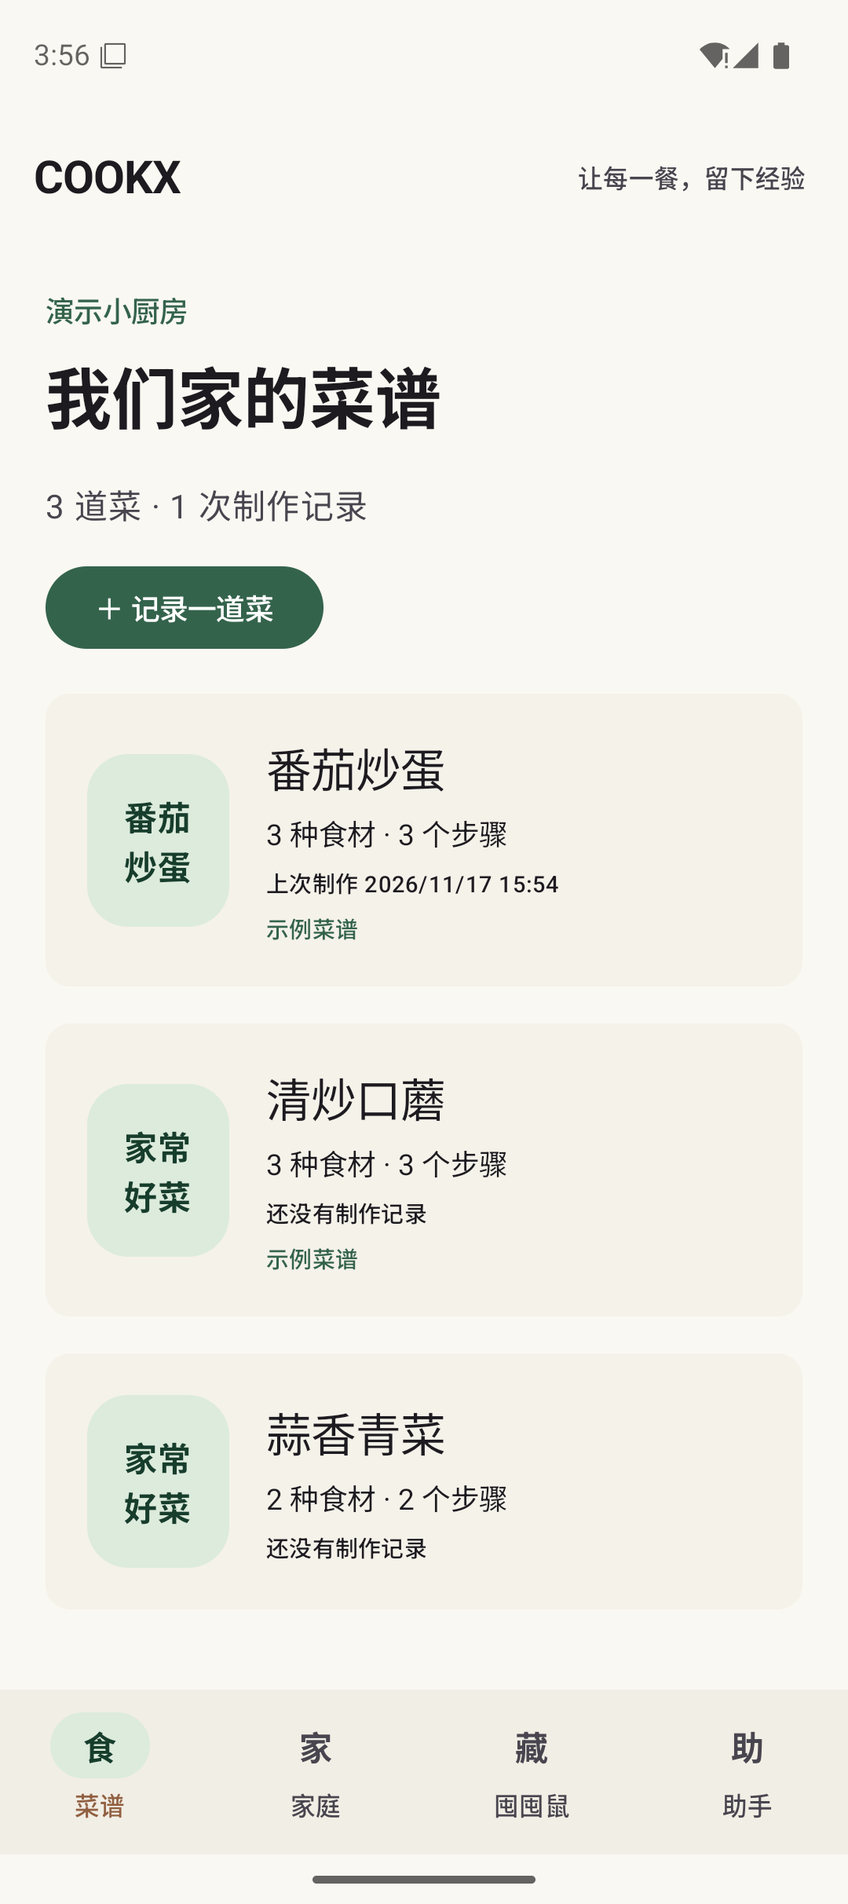
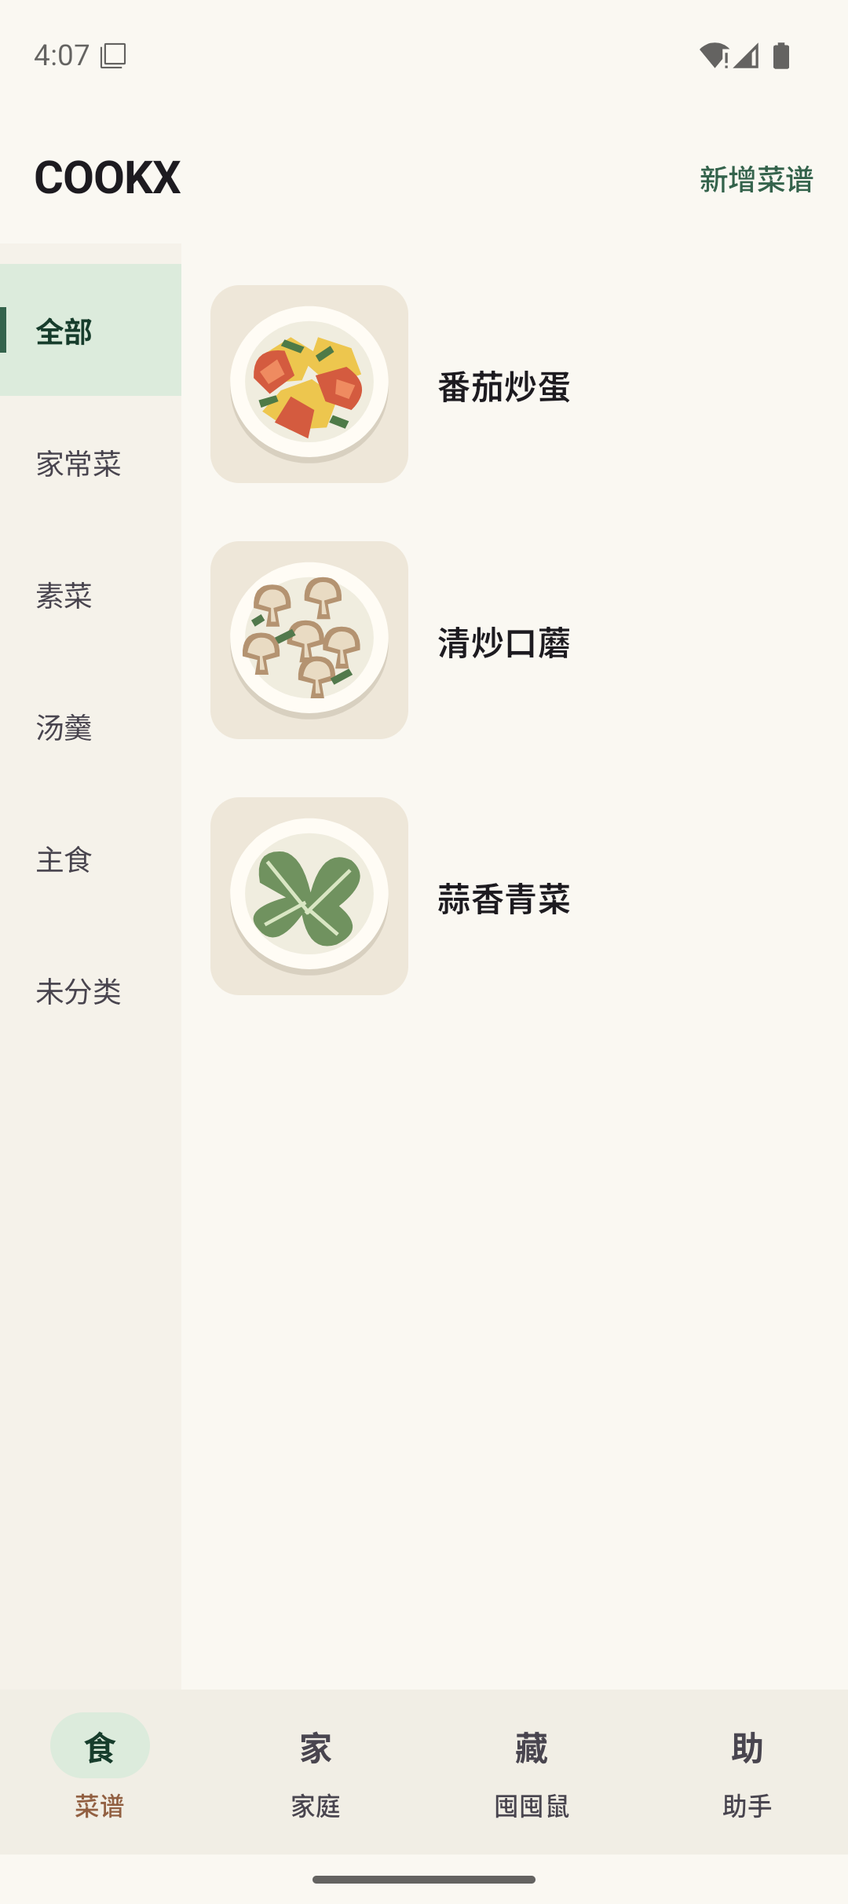
feat: simplify recipe home into categorized image-and-name menu

diff --git a/app/src/main/kotlin/com/cookx/app/ui/CookxApp.kt b/app/src/main/kotlin/com/cookx/app/ui/CookxApp.kt
@@ -45,8 +45,11 @@ private fun date(value: Long) = SimpleDateFormat("yyyy/MM/dd HH:mm", Locale.CHIN
         contentWindowInsets = WindowInsets.safeDrawing,
         topBar = { TopAppBar(title = { Text("COOKX", fontWeight = FontWeight.Bold) },
             navigationIcon = { if (stack.size > 1) TextButton(onClick = back) { Text("返回") } },
-            actions = { Text("让每一餐，留下经验", style = MaterialTheme.typography.labelMedium,
-                modifier = Modifier.padding(end = 16.dp)) }) },
+            actions = {
+                if (stack.lastOrNull() == Home && state?.family != null) {
+                    TextButton(onClick = { stack.add(NewRecipe) }) { Text("新增菜谱") }
+                }
+            }) },
     ) { padding ->
         Column(Modifier.fillMaxSize().padding(padding).consumeWindowInsets(padding),
             horizontalAlignment = Alignment.CenterHorizontally) {
@@ -70,7 +73,7 @@ private fun date(value: Long) = SimpleDateFormat("yyyy/MM/dd HH:mm", Locale.CHIN
                             Home -> NavEntry(route) {
                                 LiveKitchen(model) { current, saving ->
                                     HomeScreen(current, saving, model::addExamples,
-                                        { stack.add(Detail(it)) }, { stack.add(NewRecipe) })
+                                        { stack.add(Detail(it)) })
                                 }
                             }
                             NewRecipe -> NavEntry(route) {
@@ -127,53 +130,28 @@ private fun date(value: Long) = SimpleDateFormat("yyyy/MM/dd HH:mm", Locale.CHIN
 }
 
 @Composable private fun HomeScreen(state: KitchenState, busy: Boolean, examples: () -> Unit,
-    open: (String) -> Unit, add: () -> Unit) {
+    open: (String) -> Unit) {
     var tab by rememberSaveable { mutableIntStateOf(0) }
     Column(Modifier.fillMaxSize()) {
-        LazyColumn(Modifier.weight(1f).fillMaxWidth(), contentPadding = PaddingValues(22.dp),
-            verticalArrangement = Arrangement.spacedBy(18.dp)) {
-            item {
-                Text(state.family!!.name, style = MaterialTheme.typography.labelLarge, color = MaterialTheme.colorScheme.primary)
-                Spacer(Modifier.height(8.dp))
-                Text(listOf("我们家的菜谱", "家庭小厨房", "囤囤鼠", "厨房助手")[tab],
-                    style = MaterialTheme.typography.headlineLarge, fontWeight = FontWeight.Bold)
-            }
-            when (tab) {
-                0 -> {
+        Box(Modifier.weight(1f).fillMaxWidth()) {
+            if (tab == 0) {
+                RecipeBrowser(state.recipes, busy, examples, open)
+            } else {
+                LazyColumn(contentPadding = PaddingValues(22.dp), verticalArrangement = Arrangement.spacedBy(18.dp)) {
                     item {
-                        Text("${state.recipes.size} 道菜 · ${state.records.size} 次制作记录", color = MaterialTheme.colorScheme.onSurfaceVariant)
-                        Spacer(Modifier.height(14.dp))
-                        Button(onClick = add) { Text("＋ 记录一道菜") }
+                        Text(state.family!!.name, style = MaterialTheme.typography.labelLarge, color = MaterialTheme.colorScheme.primary)
+                        Spacer(Modifier.height(8.dp))
+                        Text(listOf("", "家庭小厨房", "囤囤鼠", "厨房助手")[tab],
+                            style = MaterialTheme.typography.headlineLarge, fontWeight = FontWeight.Bold)
                     }
-                    if (state.recipes.isEmpty()) item {
-                        Section("给家的味道留个位置", "先记下一道拿手菜，或加入两道示例菜谱，体验分步制作。") {
-                            OutlinedButton(onClick = examples, enabled = !busy) { Text("加入示例菜谱") }
-                        }
-                    }
-                    items(state.recipes, key = { it.id }) { recipe ->
-                        Card(onClick = { open(recipe.id) }, modifier = Modifier.fillMaxWidth(),
-                            colors = CardDefaults.cardColors(containerColor = MaterialTheme.colorScheme.surfaceContainerLow)) {
-                            Row(Modifier.padding(20.dp), verticalAlignment = Alignment.CenterVertically) {
-                                Surface(shape = RoundedCornerShape(20.dp), color = MaterialTheme.colorScheme.primaryContainer) {
-                                    Text(if (recipe.name.contains("蛋")) "番茄\n炒蛋" else "家常\n好菜",
-                                        modifier = Modifier.padding(18.dp), fontWeight = FontWeight.Bold,
-                                        color = MaterialTheme.colorScheme.onPrimaryContainer)
-                                }
-                                Spacer(Modifier.width(18.dp))
-                                Column(Modifier.weight(1f), verticalArrangement = Arrangement.spacedBy(6.dp)) {
-                                    Text(recipe.name, style = MaterialTheme.typography.titleLarge)
-                                    Text("${recipe.ingredients.size} 种食材 · ${recipe.steps.size} 个步骤", style = MaterialTheme.typography.bodyMedium)
-                                    Text(state.lastCooked(recipe.id)?.let { "上次制作 ${date(it)}" } ?: "还没有制作记录",
-                                        style = MaterialTheme.typography.labelSmall)
-                                    if (recipe.isExample) Text("示例菜谱", style = MaterialTheme.typography.labelSmall, color = MaterialTheme.colorScheme.primary)
-                                }
-                            }
+                    item {
+                        when (tab) {
+                            1 -> Section("家庭共用一本菜谱", "当前家庭：${state.family!!.name}\n菜谱与制作记录归属于这个家庭，数据目前仅保存在此设备。\n\n邀请码、账号与多人协作将在后续接入。") {}
+                            2 -> Section("冰箱有数，做饭有底", "这里将记录采购花费、食材余量与调料情况。\n\n库存精度和扣减方式仍待讨论，当前尚未开放录入。") {}
+                            3 -> Section("从经验，到自己的配方", "未来协助整理帖子、替换食材与调料，回顾一天的饮食。\n\n尚未接入模型、小红书读取或健康分析。") {}
                         }
                     }
                 }
-                1 -> item { Section("家庭共用一本菜谱", "当前家庭：${state.family!!.name}\n菜谱与制作记录归属于这个家庭，数据目前仅保存在此设备。\n\n邀请码、账号与多人协作将在后续接入。") {} }
-                2 -> item { Section("冰箱有数，做饭有底", "这里将记录采购花费、食材余量与调料情况。\n\n库存精度和扣减方式仍待讨论，当前尚未开放录入。") {} }
-                3 -> item { Section("从经验，到自己的配方", "未来协助整理帖子、替换食材与调料，回顾一天的饮食。\n\n尚未接入模型、小红书读取或健康分析。") {} }
             }
         }
         NavigationBar {
@@ -218,17 +196,19 @@ private fun date(value: Long) = SimpleDateFormat("yyyy/MM/dd HH:mm", Locale.CHIN
 @Composable private fun RecipeEditor(familyId: String, busy: Boolean, save: (Recipe) -> Unit) {
     var name by rememberSaveable { mutableStateOf("") }
     var ingredients by rememberSaveable { mutableStateOf("") }
+    var category by rememberSaveable { mutableStateOf("家常菜") }
     var steps by rememberSaveable { mutableStateOf("") }
     var error by rememberSaveable { mutableStateOf<String?>(null) }
     Column(Modifier.fillMaxSize().verticalScroll(rememberScrollState()).padding(24.dp), verticalArrangement = Arrangement.spacedBy(18.dp)) {
         Text("记下一道拿手菜", style = MaterialTheme.typography.headlineMedium)
         Text("写入家庭共用的菜谱，之后可以随时开始制作。")
         OutlinedTextField(name, { name = it }, label = { Text("菜名") }, modifier = Modifier.fillMaxWidth(), singleLine = true)
+        OutlinedTextField(category, { category = it }, label = { Text("分类") }, modifier = Modifier.fillMaxWidth(), singleLine = true)
         OutlinedTextField(ingredients, { ingredients = it }, label = { Text("食材与用量，每行一种") }, modifier = Modifier.fillMaxWidth(), minLines = 3)
         OutlinedTextField(steps, { steps = it }, label = { Text("制作步骤，每行一步") }, modifier = Modifier.fillMaxWidth(), minLines = 4)
         error?.let { Text(it, color = MaterialTheme.colorScheme.error) }
         Button(onClick = {
-            runCatching { recipeDraft(familyId, name, ingredients, steps) }
+            runCatching { recipeDraft(familyId, name, ingredients, steps, category) }
                 .onSuccess { error = null; save(it) }.onFailure { error = it.message }
         }, enabled = !busy, modifier = Modifier.fillMaxWidth()) { Text("保存菜谱") }
     }

diff --git a/app/src/main/kotlin/com/cookx/app/ui/RecipeBrowser.kt b/app/src/main/kotlin/com/cookx/app/ui/RecipeBrowser.kt
@@ -1,0 +1,79 @@
+package com.cookx.app.ui
+
+import androidx.compose.foundation.Image
+import androidx.compose.foundation.background
+import androidx.compose.foundation.clickable
+import androidx.compose.foundation.layout.*
+import androidx.compose.foundation.lazy.LazyColumn
+import androidx.compose.foundation.lazy.items
+import androidx.compose.foundation.lazy.rememberLazyListState
+import androidx.compose.foundation.selection.selectable
+import androidx.compose.foundation.shape.RoundedCornerShape
+import androidx.compose.material3.*
+import androidx.compose.runtime.*
+import androidx.compose.runtime.saveable.rememberSaveable
+import androidx.compose.ui.Alignment
+import androidx.compose.ui.Modifier
+import androidx.compose.ui.draw.clip
+import androidx.compose.ui.layout.ContentScale
+import androidx.compose.ui.res.painterResource
+import androidx.compose.ui.semantics.Role
+import androidx.compose.ui.platform.testTag
+import androidx.compose.ui.text.font.FontWeight
+import androidx.compose.ui.unit.dp
+import com.cookx.app.R
+import com.cookx.app.domain.Recipe
+
+/** Ordering-menu layout: independent category rail and an image/name-only recipe list. */
+@Composable internal fun RecipeBrowser(recipes: List<Recipe>, busy: Boolean,
+    examples: () -> Unit, open: (String) -> Unit) {
+    val categories = (listOf("全部", "家常菜", "素菜", "汤羹", "主食") + recipes.map { it.category }).distinct()
+    var selected by rememberSaveable { mutableStateOf("全部") }
+    val active = selected.takeIf { it in categories } ?: "全部"
+    val visible = if (active == "全部") recipes else recipes.filter { it.category == active }
+    val listState = rememberLazyListState()
+    LaunchedEffect(active) { listState.scrollToItem(0) }
+    Row(Modifier.fillMaxSize()) {
+        LazyColumn(Modifier.width(88.dp).fillMaxHeight().background(MaterialTheme.colorScheme.surfaceContainerLow)
+            .testTag("recipeCategories"), contentPadding = PaddingValues(vertical = 10.dp)) {
+            items(categories, key = { it }) { category ->
+                val isSelected = category == active
+                Row(Modifier.fillMaxWidth().heightIn(min = 64.dp)
+                    .background(if (isSelected) MaterialTheme.colorScheme.primaryContainer else MaterialTheme.colorScheme.surfaceContainerLow)
+                    .selectable(selected = isSelected, role = Role.Tab, onClick = { selected = category }),
+                    verticalAlignment = Alignment.CenterVertically) {
+                    Box(Modifier.width(3.dp).height(22.dp).background(
+                        if (isSelected) MaterialTheme.colorScheme.primary else MaterialTheme.colorScheme.surfaceContainerLow))
+                    Text(category, Modifier.padding(horizontal = 14.dp, vertical = 16.dp),
+                        style = MaterialTheme.typography.labelLarge,
+                        fontWeight = if (isSelected) FontWeight.Bold else FontWeight.Normal,
+                        color = if (isSelected) MaterialTheme.colorScheme.onPrimaryContainer else MaterialTheme.colorScheme.onSurfaceVariant)
+                }
+            }
+        }
+        LazyColumn(Modifier.weight(1f).fillMaxHeight().testTag("recipeList"), state = listState,
+            contentPadding = PaddingValues(horizontal = 14.dp, vertical = 12.dp),
+            verticalArrangement = Arrangement.spacedBy(12.dp)) {
+            if (visible.isEmpty()) item {
+                Column(Modifier.fillMaxWidth().padding(vertical = 28.dp), verticalArrangement = Arrangement.spacedBy(16.dp)) {
+                    Text(if (recipes.isEmpty()) "还没有菜谱" else "这个分类还没有菜谱", style = MaterialTheme.typography.titleMedium)
+                    if (recipes.isEmpty()) OutlinedButton(onClick = examples, enabled = !busy) { Text("加入示例菜谱") }
+                }
+            }
+            items(visible, key = { it.id }) { recipe ->
+                Row(Modifier.fillMaxWidth().clip(RoundedCornerShape(16.dp))
+                    .clickable(role = Role.Button, onClick = { open(recipe.id) }).padding(vertical = 8.dp),
+                    verticalAlignment = Alignment.CenterVertically) {
+                    Image(painterResource(when (recipe.id) {
+                        "example-tomato-eggs" -> R.drawable.recipe_tomato_eggs
+                        "example-mushrooms" -> R.drawable.recipe_mushrooms
+                        else -> R.drawable.recipe_placeholder
+                    }), contentDescription = null,
+                        modifier = Modifier.size(96.dp).clip(RoundedCornerShape(14.dp)), contentScale = ContentScale.Crop)
+                    Text(recipe.name, modifier = Modifier.weight(1f).padding(start = 14.dp, end = 2.dp),
+                        style = MaterialTheme.typography.titleMedium, fontWeight = FontWeight.SemiBold)
+                }
+            }
+        }
+    }
+}

diff --git a/app/src/main/kotlin/com/cookx/app/domain/Models.kt b/app/src/main/kotlin/com/cookx/app/domain/Models.kt
@@ -6,6 +6,7 @@ import kotlinx.serialization.Serializable
 @Serializable data class Recipe(
     val id: String, val familyId: String, val name: String,
     val ingredients: List<String>, val steps: List<String>, val isExample: Boolean = false,
+    val category: String = "未分类",
 )
 @Serializable data class CookingRecord(
     val id: String, val familyId: String, val recipeId: String,
@@ -19,19 +20,19 @@ import kotlinx.serialization.Serializable
         .maxOfOrNull { it.completedAt }
 }
 
-fun recipeDraft(familyId: String, name: String, ingredients: String, steps: String): Recipe {
+fun recipeDraft(familyId: String, name: String, ingredients: String, steps: String, category: String = "未分类"): Recipe {
     fun lines(value: String) = value.lines().map(String::trim).filter(String::isNotEmpty)
     require(name.isNotBlank()) { "请填写菜名" }
     require(lines(ingredients).isNotEmpty()) { "请至少填写一种食材" }
     require(lines(steps).isNotEmpty()) { "请至少填写一个步骤" }
-    return Recipe(java.util.UUID.randomUUID().toString(), familyId, name.trim(), lines(ingredients), lines(steps))
+    return Recipe(java.util.UUID.randomUUID().toString(), familyId, name.trim(), lines(ingredients), lines(steps), category = category.trim().ifBlank { "未分类" })
 }
 
 fun exampleRecipes(familyId: String) = listOf(
     Recipe("example-tomato-eggs", familyId, "番茄炒蛋",
         listOf("番茄 2 个", "鸡蛋 3 个", "食用油、盐 适量"),
-        listOf("番茄洗净切块，鸡蛋打散。", "热锅加油，倒入蛋液，凝固后盛出。", "炒软番茄，加入鸡蛋翻炒，用盐调味后盛出。"), true),
+        listOf("番茄洗净切块，鸡蛋打散。", "热锅加油，倒入蛋液，凝固后盛出。", "炒软番茄，加入鸡蛋翻炒，用盐调味后盛出。"), true, category = "家常菜"),
     Recipe("example-mushrooms", familyId, "清炒口蘑",
         listOf("口蘑 250 克", "蒜 2 瓣", "食用油、盐 适量"),
-        listOf("口蘑洗净切片，蒜切碎。", "热锅加油，炒香蒜末。", "加入口蘑炒熟，按口味加盐后盛出。"), true),
+        listOf("口蘑洗净切片，蒜切碎。", "热锅加油，炒香蒜末。", "加入口蘑炒熟，按口味加盐后盛出。"), true, category = "素菜"),
 )

diff --git a/app/src/androidTest/kotlin/com/cookx/app/RecipeBrowserTest.kt b/app/src/androidTest/kotlin/com/cookx/app/RecipeBrowserTest.kt
@@ -1,0 +1,41 @@
+package com.cookx.app
+
+import androidx.compose.ui.test.*
+import androidx.compose.ui.test.junit4.createComposeRule
+import androidx.compose.ui.test.junit4.StateRestorationTester
+import androidx.test.ext.junit.runners.AndroidJUnit4
+import com.cookx.app.domain.exampleRecipes
+import com.cookx.app.ui.RecipeBrowser
+import com.cookx.app.ui.theme.COOKXTheme
+import org.junit.Assert.assertEquals
+import org.junit.Rule
+import org.junit.Test
+import org.junit.runner.RunWith
+
+@RunWith(AndroidJUnit4::class)
+class RecipeBrowserTest {
+    @get:Rule val compose = createComposeRule()
+    @Test fun categoryFilterRestoresAndRowsOnlyShowImageAndName() {
+        val restore = StateRestorationTester(compose)
+        var opened: String? = null
+        restore.setContent {
+            COOKXTheme { RecipeBrowser(exampleRecipes("family"), false, {}, { opened = it }) }
+        }
+        compose.onNodeWithText("番茄炒蛋").assertIsDisplayed()
+        compose.onNodeWithText("清炒口蘑").assertIsDisplayed()
+        compose.onNodeWithText("示例菜谱").assertDoesNotExist()
+        compose.onNodeWithText("上次制作", substring = true).assertDoesNotExist()
+        compose.onNodeWithText("3 种食材", substring = true).assertDoesNotExist()
+        compose.onNodeWithText("素菜").performClick()
+        compose.onNodeWithText("清炒口蘑").assertIsDisplayed()
+        compose.onNodeWithText("番茄炒蛋").assertDoesNotExist()
+        restore.emulateSavedInstanceStateRestore()
+        compose.onNodeWithText("素菜").assertIsSelected()
+        compose.onNodeWithText("清炒口蘑").performClick()
+        assertEquals("example-mushrooms", opened)
+        compose.onNodeWithText("汤羹").performClick()
+        compose.onNodeWithText("这个分类还没有菜谱").assertIsDisplayed()
+        compose.onNodeWithText("全部").performClick()
+        compose.onNodeWithText("番茄炒蛋").assertIsDisplayed()
+    }
+}

diff --git a/app/src/androidTest/kotlin/com/cookx/app/KitchenJourneyTest.kt b/app/src/androidTest/kotlin/com/cookx/app/KitchenJourneyTest.kt
@@ -43,17 +43,17 @@ class KitchenJourneyTest {
             compose.onNode(hasScrollAction()).performScrollToNode(hasText("下次少放盐"))
             compose.onNodeWithText("下次少放盐").assertIsDisplayed()
             compose.onNodeWithText("返回").performClick()
-            compose.onNodeWithText("演示小厨房").assertIsDisplayed()
-            compose.onNodeWithText("2 道菜 · 1 次制作记录").assertIsDisplayed()
-            compose.onNodeWithText("＋ 记录一道菜").performClick()
+            compose.onNodeWithTag("recipeList").assertIsDisplayed()
+            compose.onNodeWithText("2 道菜 · 1 次制作记录").assertDoesNotExist()
+            compose.onNodeWithText("新增菜谱").performClick()
             compose.onNodeWithText("保存菜谱").performScrollTo().performClick()
             compose.onNodeWithText("请填写菜名").assertIsDisplayed()
             compose.onNodeWithText("菜名").performScrollTo().performTextInput("蒜香青菜")
             compose.onNodeWithText("食材与用量，每行一种").performScrollTo().performTextInput("青菜 1 把\n蒜 2 瓣")
             compose.onNodeWithText("制作步骤，每行一步").performScrollTo().performTextInput("洗净切好\n炒熟出锅")
             compose.onNodeWithText("保存菜谱").performScrollTo().performClick()
-            compose.waitUntil(10_000) { compose.onAllNodesWithText("3 道菜 · 1 次制作记录").fetchSemanticsNodes().isNotEmpty() }
-            compose.onNode(hasScrollAction()).performScrollToNode(hasText("蒜香青菜"))
+            compose.waitUntil(10_000) { compose.onAllNodesWithText("蒜香青菜").fetchSemanticsNodes().isNotEmpty() }
+            compose.onNodeWithTag("recipeList").performScrollToNode(hasText("蒜香青菜"))
             compose.onNodeWithText("蒜香青菜").assertIsDisplayed()
         }
     }

diff --git a/app/src/test/kotlin/com/cookx/app/domain/ModelsTest.kt b/app/src/test/kotlin/com/cookx/app/domain/ModelsTest.kt
@@ -27,4 +27,9 @@ class ModelsTest {
         assertEquals(state, Json.decodeFromString<KitchenState>(Json.encodeToString(state)))
         assertTrue(state.recipes.all { it.familyId == state.family!!.id })
     }
+    @Test fun oldRecipeDataDefaultsToUncategorized() {
+        val recipe = Json.decodeFromString<Recipe>("""{"id":"old","familyId":"family-a","name":"旧菜谱","ingredients":["盐"],"steps":["炒熟"]}""")
+        assertEquals("未分类", recipe.category)
+        assertEquals("素菜", recipeDraft("family-a", "菜", "青菜", "炒熟", " 素菜 ").category)
+    }
 }

diff --git a/README.md b/README.md
@@ -25,7 +25,7 @@ android run --device=emulator-5554 app/build/outputs/apk/debug/app-debug.apk
 - 重启后保留家庭、菜谱与制作记录；Activity 重建时恢复导航、当前步骤和计时截止时间。
 - 家庭、囤囤鼠与助手页面说明后续方向。邀请码协作、点菜评分、采购库存、照片上传、小红书和 Agent 尚未接入。
 
-菜品卡片使用文字占位封面。计时器仅在做菜页面显示，不提供后台提醒；离开该页面再重新进入会开始新的制作会话。独立评分尺度、自动扣库存等仍待产品讨论。
+菜谱首页采用左侧分类、右侧菜品列表，条目仅展示本地插画封面与名称；无照片的自建菜谱使用通用插画，食材、步骤、制作时间等信息保留在详情页。分类可在录入时填写，旧记录兼容为“未分类”。计时器仅在做菜页面显示，不提供后台提醒；离开该页面再重新进入会开始新的制作会话。独立评分尺度、自动扣库存等仍待产品讨论。
 
 ### 工程结构与验证
 
@@ -122,3 +122,11 @@ android skills list --agent=codex --project=.
 - 强制停止 App 后冷启动成功，界面恢复“演示小厨房”、3 道菜与 1 次制作记录，确认本地数据跨进程恢复。
 - 已检查 [家庭入口截图](docs/screenshots/welcome.png)和 [菜谱首页截图](docs/screenshots/recipes.png)。当前验证设备为 Pixel 9 / API 36 ARM64，尚未完成真机、平板、不同字体大小的全面验证。
 - 模拟器保留已安装的调试 App 和上述测试数据，供直接体验。Release APK 为未签名构建，尚未配置发布签名。
+
+### 点餐式菜谱首页（2026-11-17）
+
+- 保留现有主题配色，左侧分类独立滚动，右侧列表按分类筛选；切换分类回到列表顶部。
+- 列表条目仅有图片与菜名，点击进入原详情页；新增菜谱入口位于顶栏。
+- 新增 `RecipeBrowserTest` 验证筛选、空分类、状态恢复和点击回调；该组件测试不读写家庭本地数据。
+- 分类字段有默认值，兼容未带分类的历史 JSON；本地单测覆盖兼容读取与分类输入处理。
+- 本次验证：Debug 构建、Lint（无错误）、4 个本地单测、1 个分类组件设备测试通过；旧数据未清空，并已在模拟器检查最终首页截图。
